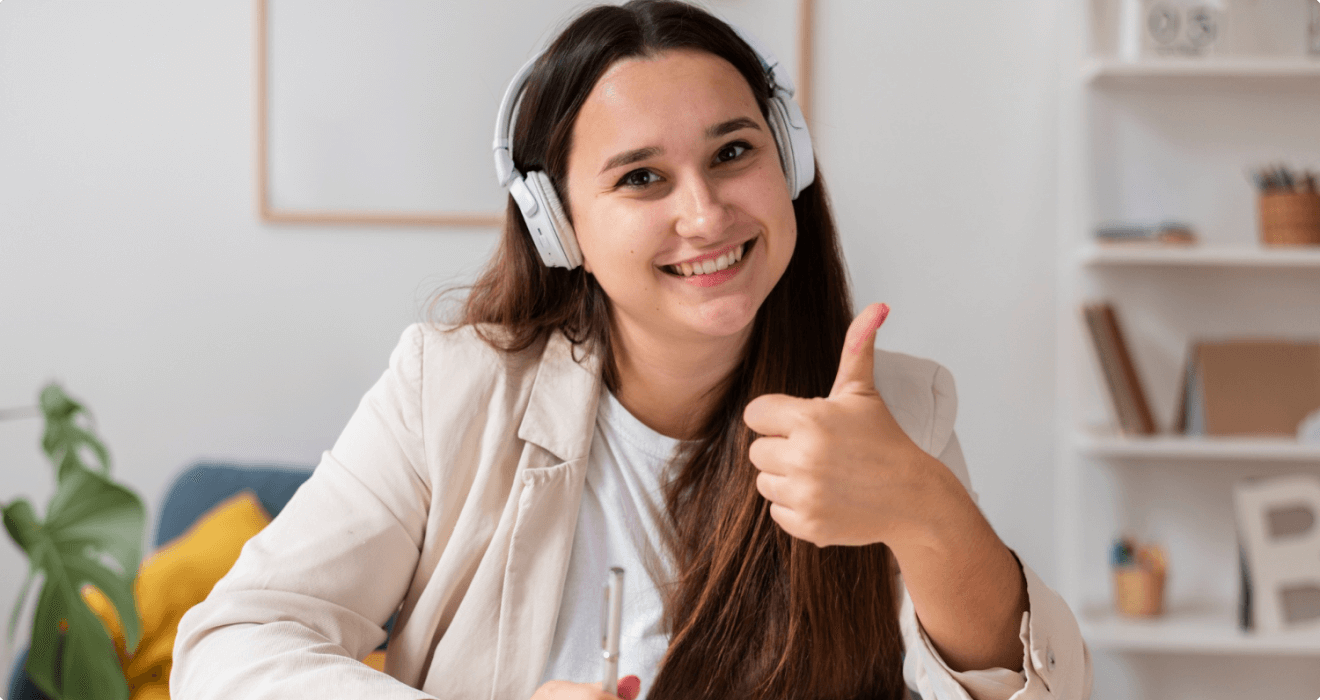
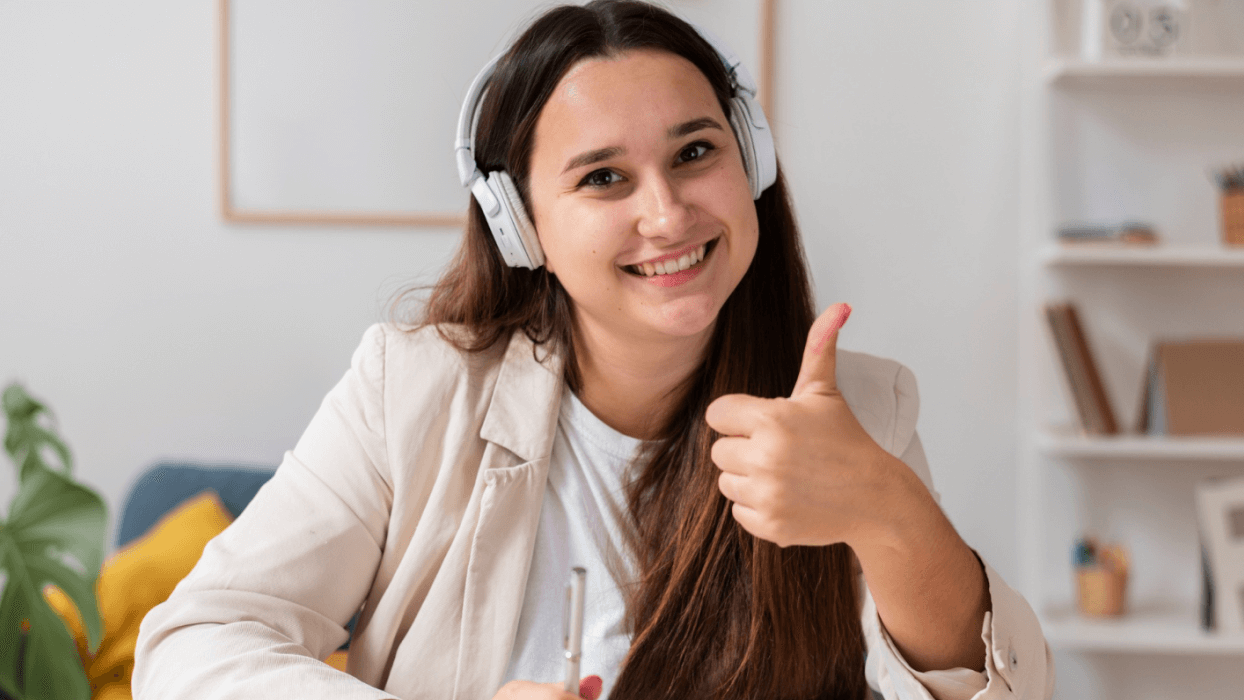
slider added

diff --git a/index.html b/index.html
@@ -12,7 +12,7 @@
 <body>
     <header class="container">
         <!-- Navbar Menu Here -->
-        <nav class="navbar navbar-expand-lg py-3">
+        <nav class="navbar navbar-expand-lg py-4">
             <div class="container-fluid">
                 <a class="navbar-brand" href="#">Bootstrap Guru</a>
 
@@ -86,6 +86,53 @@
             </div>
         </nav>
         <!-- Navber Menu End -->
+
+
+        <!-- Slider Part Here -->
+        <section class="container">
+            <div id="carouselExampleCaptions" class="carousel slide" data-bs-ride="false">
+                <div class="carousel-inner rounded">
+                    <div class="carousel-item active">
+                        <img src="images/cover/cover-1.png" class="d-block w-100" alt="...">
+                        <div class="carousel-caption d-none d-md-block">
+                            <h1>Get Started Digital Learning</h1>
+                            <p>It is a long established fact that a reader will be distracted by the readable content of
+                                a page when looking at its layout.</p>
+                            <div class="btn btn-info text-light">Get Started</div>
+                        </div>
+                    </div>
+                    <div class="carousel-item">
+                        <img src="images/cover/cover-2.jpg" class="d-block w-100" alt="...">
+                        <div class="carousel-caption d-none d-md-block">
+                            <h1>Get Started Digital Learning</h1>
+                            <p>It is a long established fact that a reader will be distracted by the readable content of
+                                a page when looking at its layout.</p>
+                            <div class="btn btn-info text-light">Get Started</div>
+                        </div>
+                    </div>
+                    <div class="carousel-item">
+                        <img src="images/cover/cover-3.jpg" class="d-block w-100" alt="...">
+                        <div class="carousel-caption d-none d-md-block">
+                            <h1>Get Started Digital Learning</h1>
+                            <p>It is a long established fact that a reader will be distracted by the readable content of
+                                a page when looking at its layout.</p>
+                            <div class="btn btn-info text-light">Get Started</div>
+                        </div>
+                    </div>
+                </div>
+                <button class="carousel-control-prev" type="button" data-bs-target="#carouselExampleCaptions"
+                    data-bs-slide="prev">
+                    <span class="carousel-control-prev-icon" aria-hidden="true"></span>
+                    <span class="visually-hidden">Previous</span>
+                </button>
+                <button class="carousel-control-next" type="button" data-bs-target="#carouselExampleCaptions"
+                    data-bs-slide="next">
+                    <span class="carousel-control-next-icon" aria-hidden="true"></span>
+                    <span class="visually-hidden">Next</span>
+                </button>
+            </div>
+        </section>
+        <!-- Slider Part End -->
     </header>
 
 
